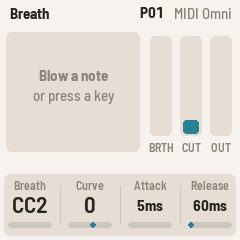
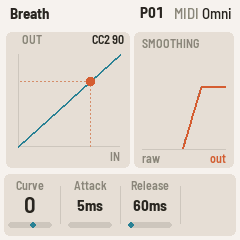
UI: "Breath CC" on Setup; the rig's settings named where they now live
The breath source knob reads "Breath CC" beside "Glide CC", no longer the
same word as the Filter's Breath. README, the page's help and the comments
say the rig is the breath curve, Pitch 2 and Setup. The README's Breath page
picture is the new page.

Claude-Session: https://claude.ai/code/session_018ykVM29KP7yZkebwzYFqnL

diff --git a/web/emu/index.html b/web/emu/index.html
@@ -170,7 +170,7 @@ kbd { font: 600 .85em ui-monospace, Menlo, monospace; background: var(--card); b
       <li>The <b>bite</b> (pitch bend) bends ±2 semitones by default (Pitch page). <b>Glide</b> follows CC5 by default; another CC, or none, on the Setup page.</li>
       <li>Last note wins: overlapping notes play legato, without a new attack, and letting one go returns to the one still held.</li>
       <li>The FM-1's own keys play from F3, every key its printed note, at full breath. <b>OCT−</b> / <b>OCT+</b> shift them.</li>
-      <li><b>PRESETS</b> picks one of 64 presets: the first 18 are factory presets, named as you turn to them, and the rest start as the init sound. The header shows it, with a * once you change the sound. <b>SAVE</b> asks "SAVE TO P12": turn PRESETS for another slot, then SAVE again. A preset holds the sound; breath source and curve, the glide CC, the keys' octave and Setup stay as they are.</li>
+      <li><b>PRESETS</b> picks one of 64 presets: the first 18 are factory presets, named as you turn to them, and the rest start as the init sound. The header shows it, with a * once you change the sound. <b>SAVE</b> asks "SAVE TO P12": turn PRESETS for another slot, then SAVE again. A preset holds the sound; the breath curve, Pitch 2 (CC depth, transpose, tune), the keys' octave and Setup stay as they are.</li>
     </ul>
   </div>
   <div>

diff --git a/firmware/src/wind/wind_app.h b/firmware/src/wind/wind_app.h
@@ -15,14 +15,14 @@
 /* parameters, in the order they are saved: add new ones at the end */
 enum {
     P_CUTOFF, P_RESO, P_MORPH, P_SLOPE,              /* Filter page (Morph: on the Engine page) */
-    P_BSRC, P_CURVE, P_ATTACK, P_RELEASE,            /* Breath page */
-    P_BEND, P_GSRC, P_GLIDE, P_GMODE,                /* Pitch page */
+    P_BSRC, P_CURVE, P_ATTACK, P_RELEASE,            /* Breath page (0.0.30: Breath CC on Setup) */
+    P_BEND, P_GSRC, P_GLIDE, P_GMODE,                /* Pitch page (0.0.30: Glide CC on Setup) */
     P_M1SRC, P_M1DST, P_M1AMT,                       /* Mod 1..4 pages: source, destination, amount */
     P_M2SRC, P_M2DST, P_M2AMT,
     P_M3SRC, P_M3DST, P_M3AMT,
     P_M4SRC, P_M4DST, P_M4AMT,
     P_KEYBREATH, P_OCTAVE,                           /* the panel's keys (0.0.18: Key breath unused, Octave on OCT-/+) */
-    P_TRANSPOSE, P_TUNE, P_MIDICH, P_THEME,          /* Setup page */
+    P_TRANSPOSE, P_TUNE, P_MIDICH, P_THEME,          /* Setup page (0.0.30: Transpose, Tune on Pitch 2) */
     P_ENGINE, P_RATIO, P_INDEX,                      /* Engine page (0.0.6) */
     P_RVTYPE, P_RVMIX, P_RVDECAY, P_RVTONE,          /* Reverb page (0.0.7) */
     P_RVPRE, P_RVSIZE, P_RVMOD, P_RVLOW,             /* Reverb 2 page */

diff --git a/firmware/src/wind/wind_app.c b/firmware/src/wind/wind_app.c
@@ -10,7 +10,7 @@ const char *const WA_NOTE_NAME[12] = {"C", "C#", "D", "D#", "E", "F", "F#", "G",
 
 static const wa_param_t PARAMS[P_NPARAMS] = {
     {"Cutoff", 0, 100, 15}, {"Reso", 0, 100, 0}, {"Morph", 0, 100, 25}, {"Slope", 0, 1, 1},
-    {"Breath", 0, 128, 2}, {"Curve", -100, 100, 0}, {"Attack", 1, 200, 5}, {"Release", 5, 2000, 60},
+    {"Breath CC", 0, 128, 2}, {"Curve", -100, 100, 0}, {"Attack", 1, 200, 5}, {"Release", 5, 2000, 60},
     {"Bend", 0, 12, 2}, {"Glide CC", 0, 128, 5}, {"Glide", 0, 2000, 4}, {"Glide on", 0, 1, 0},
     {"Source", 0, WM_SRC_LFO - 1, WM_SRC_OFF}, {"Dest", 0, WM_NDST - 1, WM_DST_CUTOFF}, {"Amount", -100, 100, 0},
     {"Source", 0, WM_SRC_LFO - 1, WM_SRC_OFF}, {"Dest", 0, WM_NDST - 1, WM_DST_CUTOFF}, {"Amount", -100, 100, 0},
@@ -66,8 +66,8 @@ const char *wa_param_name(int i)
     }
 }
 
-/* the controller's and the room's settings: breath source and curve, the glide CC, the panel keys and
- * Setup. A preset is the rest, the sound. */
+/* the controller's and the room's settings: the breath curve, Pitch 2 (the glide CC's depth, Transpose,
+ * Tune), the panel keys and Setup (the breath and glide CCs, MIDI ch, Theme). A preset is the rest, the sound. */
 int wa_param_global(int i)
 {
     switch (i) {

diff --git a/firmware/src/app/ui.c b/firmware/src/app/ui.c
@@ -262,8 +262,8 @@ static void preset_name(int slot, char *t)
     t[3] = 0;
 }
 
-/* back to the init sound: every sound setting. The rig's (breath source and curve, the glide CC, the
- * keys, Setup) stays, and so does the preset it would be saved to. Kept as any change is. */
+/* back to the init sound: every sound setting. The rig's (the breath curve, Pitch 2, the keys, Setup)
+ * stays, and so does the preset it would be saved to. Kept as any change is. */
 static void reset_defaults(void)
 {
     int k;

diff --git a/README.md b/README.md
@@ -108,8 +108,8 @@ press **SAVE** again (any other button leaves the presets alone). What you're pl
 included, is also kept by itself a few seconds after you stop, so it comes back after a restart.
 
 A preset holds the sound: the Filter, Engine, Noise, LFO, Pitch and Mod pages, the effects, and Attack and
-Release. Your rig's settings stay put when you change presets: breath source and curve, the glide CC and its
-depth, the keys' octave and Setup.
+Release. Your rig's settings stay put when you change presets: the breath curve, Pitch 2 (the glide CC's
+depth, Transpose and Tune), the keys' octave and Setup (the breath and glide CCs, MIDI ch and Theme).
 Hold **SAVE** for 1.5 s, then press it again, for the init sound (the preset slot is untouched until
 you save).
 
